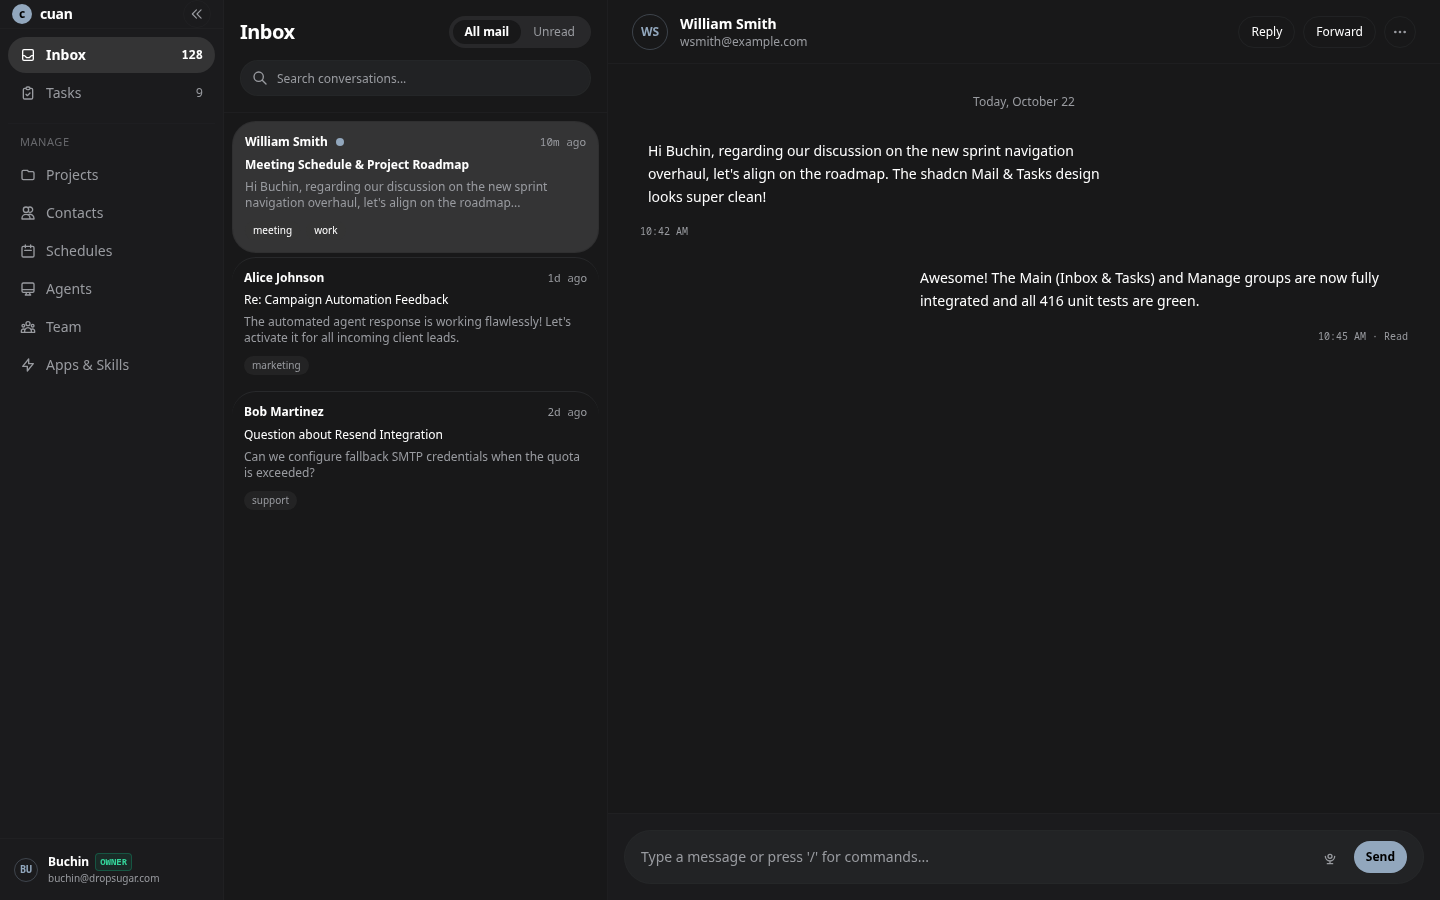
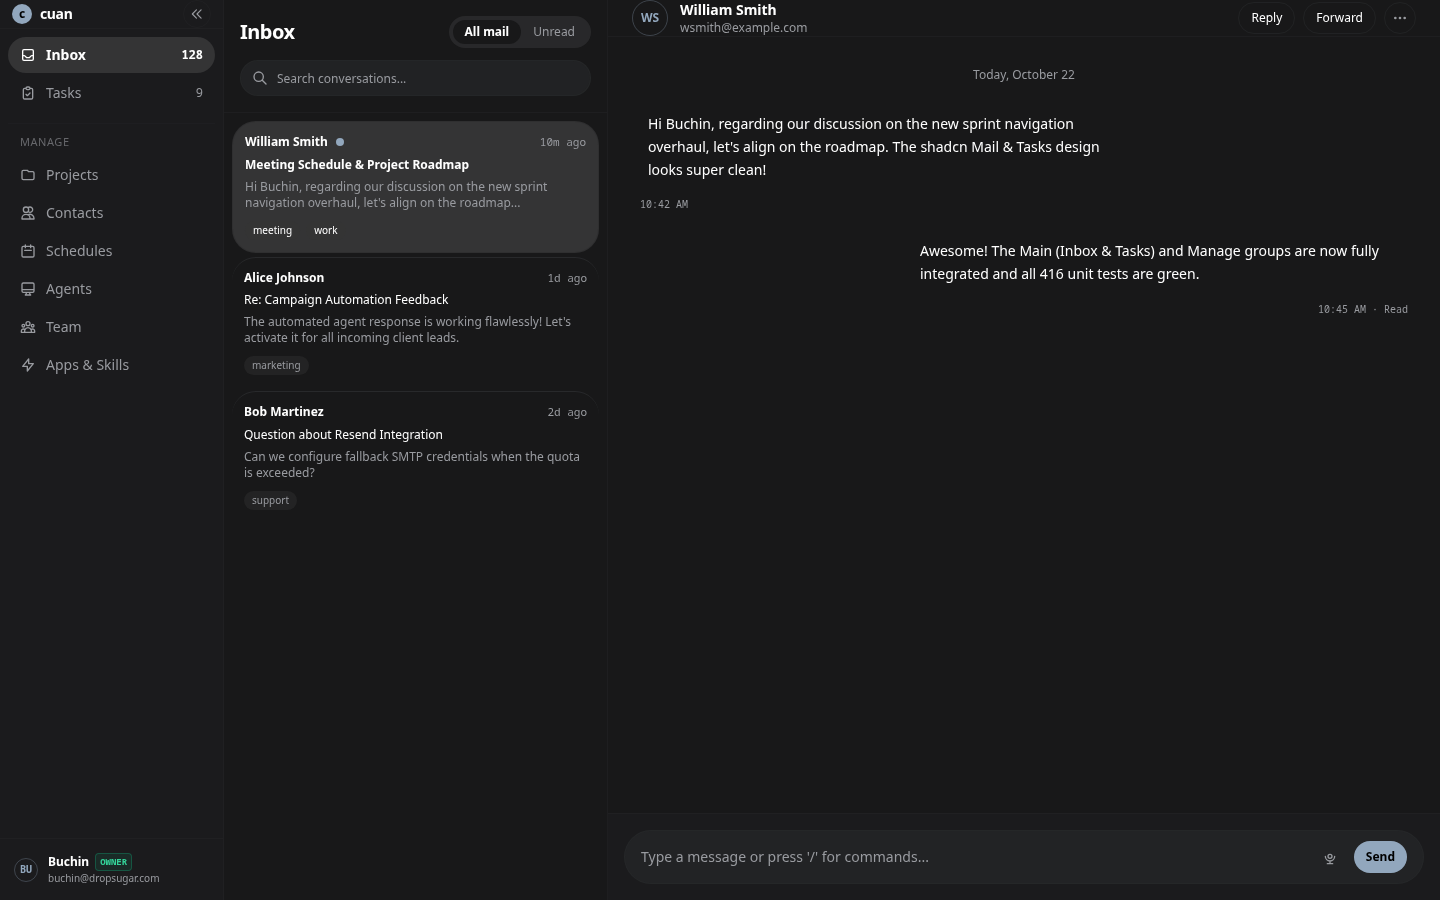
feat(layout): polish shadcn mail & tasks architecture with single header, single-line rows, and calm task card diet

diff --git a/web/src/features/tasks/TaskBoardView.tsx b/web/src/features/tasks/TaskBoardView.tsx
@@ -395,7 +395,7 @@ export function TaskBoardView({
       </select>
       <ChevronDown
         aria-hidden
-        className="pointer-events-none absolute right-1.5 h-3 w-3 text-muted-foreground"
+        className="pointer-events-none absolute right-1.5 h-3 w-3 text-muted-foreground/40 opacity-0 group-hover:opacity-100 transition-opacity"
       />
     </span>
   )
@@ -458,13 +458,13 @@ export function TaskBoardView({
   )
   return (
     <section
-      className="flex h-full min-h-0 flex-col gap-3"
+      className="flex h-full min-h-0 flex-col gap-2.5"
       aria-label="Task list"
     >
-      <div className="hidden sm:flex items-center justify-between pb-1">
+      <div className="hidden sm:flex items-center justify-between pb-0.5">
         <div>
-          <h2 className="text-2xl font-bold tracking-tight">{t('Tasks')}</h2>
-          <p className="text-muted-foreground text-xs sm:text-sm">
+          <h2 className="sr-only">{t('Tasks')}</h2>
+          <p className="text-muted-foreground text-xs">
             {t("Here's a list of your tasks for this workspace!")}
           </p>
         </div>
@@ -812,19 +812,14 @@ export function TaskBoardView({
                             onSelectTask(t)
                           }}
                         >
-                          <span className="truncate" title={t.title}>
+                          <span
+                            className="truncate"
+                            title={requestPreview(t) ? `${t.title} — Request: ${requestPreview(t)}` : t.title}
+                          >
                             {t.title}
                           </span>
                         </button>
                       </div>
-                      {requestPreview(t) && (
-                        <p
-                          className="mt-0.5 truncate text-[11px] text-muted-foreground"
-                          title={requestPreview(t)}
-                        >
-                          <span className="font-medium">Request:</span> {requestPreview(t)}
-                        </p>
-                      )}
                     </td>
                     <td className="px-2 py-1">{statusPicker(t)}</td>
                     <td className="px-2 py-1">
@@ -898,7 +893,7 @@ export function TaskBoardView({
                         </select>
                         <ChevronDown
                           aria-hidden
-                          className="pointer-events-none absolute right-1 top-1/2 h-2.5 w-2.5 -translate-y-1/2 text-muted-foreground"
+                          className="pointer-events-none absolute right-1 top-1/2 h-2.5 w-2.5 -translate-y-1/2 text-muted-foreground/40 opacity-0 group-hover:opacity-100 transition-opacity"
                         />
                       </div>
                     </td>

diff --git a/web/src/features/inbox/InboxSubPanel.tsx b/web/src/features/inbox/InboxSubPanel.tsx
@@ -161,7 +161,7 @@ export function ConversationItem({
       key={contact.id}
       label={contact.name}
       swipeAction={archiveAction}
-      className={cn('inbox-item-row border-b border-border/40', !isLast && 'has-divider')}
+      className={cn('inbox-item-row border-b border-border/40 md:border-b-0 md:mb-1.5', !isLast && 'has-divider')}
       actions={[
         { label: 'Open conversation', run: openContact },
         { label: unread ? 'Mark as read' : 'Mark as unread', disabled: !archive.loaded, run: () => archive.markRead(id, unread > 0) },
@@ -175,8 +175,8 @@ export function ConversationItem({
         aria-pressed={isSelected}
         data-testid="conversation-item"
         className={cn(
-          'inbox-contact-row flex flex-col items-start gap-1 w-full min-h-[4.5rem] rounded-lg border border-transparent p-3 text-left transition-all hover:bg-accent/40 focus-visible:outline focus-visible:outline-2 focus-visible:outline-ring',
-          isSelected && 'bg-accent/70 border-border/50 text-accent-foreground font-medium shadow-xs',
+          'inbox-contact-row flex flex-col items-start gap-1.5 w-full min-h-[4.5rem] rounded-lg border border-transparent md:border-border/30 md:bg-card/20 p-3 text-left transition-all hover:bg-accent/40 md:hover:border-border/60 focus-visible:outline focus-visible:outline-2 focus-visible:outline-ring',
+          isSelected && 'bg-accent/70 md:bg-muted border-border/50 md:border-border/80 text-accent-foreground font-medium shadow-xs',
         )}
       >
         <div className="flex w-full flex-col gap-1">
@@ -430,7 +430,7 @@ export function InboxSubPanel({
               onChange={(e) => handleQueryChange(e.target.value)}
               aria-label={t('Search conversations')}
               placeholder="Search conversations…"
-              className="min-h-11 pl-8 pr-3 py-2 text-base rounded-full inbox-search w-full border border-input bg-background/60 text-foreground placeholder:text-muted-foreground focus:outline-none focus:ring-1 focus:ring-ring"
+              className="min-h-11 pl-8 pr-3 py-2 text-base rounded-full inbox-search w-full md:min-h-8 md:h-8 md:text-xs md:py-1 md:rounded-md border border-input bg-background/60 text-foreground placeholder:text-muted-foreground focus:outline-none focus:ring-1 focus:ring-ring"
             />
           </div>
         </ItemActions>

diff --git a/web/src/features/inbox/InboxView.tsx b/web/src/features/inbox/InboxView.tsx
@@ -466,7 +466,9 @@ export function InboxView({
         (t.status || '').toLowerCase().trim() === 'review'
       if (isCompleted) return false
       if (t.source_message_id && visibleMsgIds.has(t.source_message_id)) return false
-      if (messageContents.includes(`/tasks/${t.id}`)) return false
+      const shortRef = t.id ? '#' + t.id.slice(0, 7) : ''
+      if (messageContents.includes(`/tasks/${t.id}`) || messageContents.includes(t.id)) return false
+      if (shortRef && messageContents.includes(shortRef)) return false
       return true
     })
   }, [linkedTasks, messages])
@@ -1244,7 +1246,7 @@ export function InboxView({
         ) : (
           <>
             {/* ── Top Header (aligning with shadcn Mail h-13) ── */}
-            <div className="wa-chat-header h-13 sm:h-13 px-3 sm:px-4 flex items-center justify-between shrink-0 border-b-0 bg-background">
+            <div className="wa-chat-header h-13 sm:h-13 px-3 sm:px-4 flex items-center justify-between shrink-0 border-b-0 min-[1200px]:border-b min-[1200px]:border-border/40 bg-background">
               <div className="flex items-center gap-1.5 sm:gap-2.5 min-w-0">
                 {/* Mobile Back Button (<) */}
                 <button

diff --git a/web/src/features/inbox/TaskCard.tsx b/web/src/features/inbox/TaskCard.tsx
@@ -479,7 +479,7 @@ export const TaskCard = memo(function TaskCard({
       role="button"
       tabIndex={0}
       className={cn(
-        'group relative w-full max-w-full min-w-0 rounded-xl border border-border/40 bg-card/40 p-3.5 sm:p-4 text-card-foreground transition-all hover:border-border/70 cursor-pointer select-none space-y-3 min-h-[44px]',
+        'group relative w-full max-w-full min-w-0 rounded-lg border border-border/40 bg-card/40 p-3 text-card-foreground transition-all hover:border-border/70 cursor-pointer select-none space-y-2 min-h-[44px]',
         className
       )}
     >

diff --git a/web/src/features/inbox/chat-calm.css b/web/src/features/inbox/chat-calm.css
@@ -70,6 +70,13 @@
   border-bottom: none;
 }
 
+@media (min-width: 1200px) {
+  .wa-chat-header,
+  .calm-chat-header {
+    border-bottom: 1px solid hsl(var(--border) / 0.35);
+  }
+}
+
 /* Conversation Stream: Pure, flat canvas without dot-pattern wallpaper */
 .wa-conversation,
 .calm-conversation {
